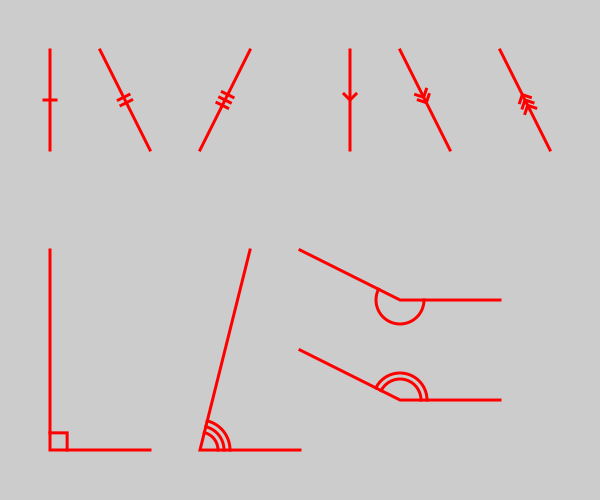
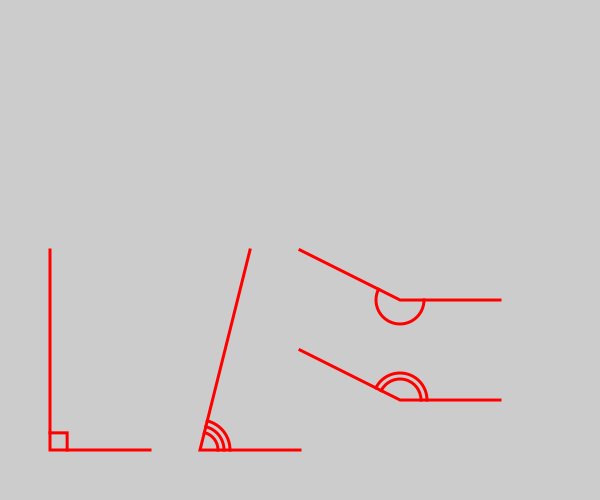
Remove deprecated marker classes

diff --git a/generativepy/geometry.py b/generativepy/geometry.py
@@ -2007,246 +2007,6 @@ class AngleMarker(Shape):
         shape.add()
 
 
-class TickMarker(Shape):
-    """
-    Deprecated - use the `Marker` class instead.
-
-    The TickMarker class is a special Shape that draws a tick mark (a small line) across an existing line.
-
-    An TickMarker can have 1, 2 or 3 ticks. It is normally used to indicate that two or more lines are the same length.
-
-    The TickMarker only draws the ticks, it doesn't draw the line itself. That would normally be
-    drawn using a Line object, Polygon object, or similar.
-    """
-
-    def __init__(self, ctx):
-        super().__init__(ctx)
-        self.a = (0, 0)
-        self.b = (0, 0)
-        self.length = 4
-        self.count = 1
-        self.gap = 1
-
-    def add(self):
-        self._do_path_()
-        pmid = ((self.a[0] + self.b[0]) / 2, (self.a[1] + self.b[1]) / 2)
-        # self.length of line
-        l = math.sqrt((self.a[0] - self.b[0]) * (self.a[0] - self.b[0]) + (self.a[1] - self.b[1]) * (self.a[1] - self.b[1]))
-        # Unit vector along line
-        # Draw a tick on a line - deprecated, use TickMarker class instead
-        vector = ((self.b[0] - self.a[0]) / l, (self.b[1] - self.a[1]) / l)
-        # Unit vector perpendicular to line
-        pvector = (-vector[1], vector[0])
-
-        self.ctx.new_path()
-        if self.count == 1:
-            pos = (pmid[0], pmid[1])
-            self._do_line((pos[0] + pvector[0] * self.length / 2, pos[1] + pvector[1] * self.length / 2),
-                          (pos[0] - pvector[0] * self.length / 2, pos[1] - pvector[1] * self.length / 2))
-        elif self.count == 2:
-            pos = (pmid[0] - vector[0] * self.gap / 2, pmid[1] - vector[1] * self.gap / 2)
-            self._do_line((pos[0] + pvector[0] * self.length / 2, pos[1] + pvector[1] * self.length / 2),
-                          (pos[0] - pvector[0] * self.length / 2, pos[1] - pvector[1] * self.length / 2))
-            pos = (pmid[0] + vector[0] * self.gap / 2, pmid[1] + vector[1] * self.gap / 2)
-            self._do_line((pos[0] + pvector[0] * self.length / 2, pos[1] + pvector[1] * self.length / 2),
-                          (pos[0] - pvector[0] * self.length / 2, pos[1] - pvector[1] * self.length / 2))
-        elif self.count == 3:
-            pos = (pmid[0] - vector[0] * self.gap, pmid[1] - vector[1] * self.gap)
-            self._do_line((pos[0] + pvector[0] * self.length / 2, pos[1] + pvector[1] * self.length / 2),
-                          (pos[0] - pvector[0] * self.length / 2, pos[1] - pvector[1] * self.length / 2))
-            pos = (pmid[0], pmid[1])
-            self._do_line((pos[0] + pvector[0] * self.length / 2, pos[1] + pvector[1] * self.length / 2),
-                          (pos[0] - pvector[0] * self.length / 2, pos[1] - pvector[1] * self.length / 2))
-            pos = (pmid[0] + vector[0] * self.gap, pmid[1] + vector[1] * self.gap)
-            self._do_line((pos[0] + pvector[0] * self.length / 2, pos[1] + pvector[1] * self.length / 2),
-                          (pos[0] - pvector[0] * self.length / 2, pos[1] - pvector[1] * self.length / 2))
-        return self
-
-    def of_start_end(self, a, b):
-        """
-        Creates a marker based on 2 points.
-
-        This will draw a mark for the line formed by ab. The mark will be half way between a and b.
-
-        Args:
-            a:  (number, number) - A tuple of two numbers, giving the (x, y) position of point a.
-            b:  (number, number) - A tuple of two numbers, giving the (x, y) position of point b.
-
-        Returns:
-            self
-        """
-        self.a = a
-        self.b = b
-        return self
-
-    def with_length(self, length):
-        """
-        Sets the length of the marker. Default 4
-
-        Args:
-            length:  number - Length of the marker in user units.
-
-        Returns:
-            self
-        """
-        self.length = length
-        return self
-
-    def with_count(self, count):
-        """
-        Sets the number of marks. Default 1. Permitted values are 1, 2 or 3.
-
-        Args:
-            * count:  number - Number of marks
-
-        Returns:
-            self
-        """
-        self.count = count
-        return self
-
-    def with_gap(self, gap):
-        """
-        Sets the gap between the marks if `count` > 1.
-
-        Sets the spacing of the marks. This is only relevant if there is more than one arc (ie if count > 1), otherwise
-        it is ignored.The default is 2.
-
-        Args:
-            gap:  number - Gap between marks in user units.
-
-        Returns:
-            self
-        """
-        self.gap = gap
-        return self
-
-    def _do_line(self, a, b):
-        self.ctx.move_to(*a)
-        self.ctx.line_to(*b)
-
-
-class ParallelMarker(Shape):
-    """
-    Deprecated - use the `Marker` class instead.
-
-    The ParallelMarker class is a special Shape that draws an arrow mark across an existing line.
-
-    An ParallelMarker can have 1, 2 or 3 arrows. It is normally used to indicate that two or more lines are the parallel.
-
-    The ParallelMarker only draws the arrows, it doesn't draw the line itself. That would normally be
-    drawn using a Line object, Polygon object, or similar.
-    """
-
-    def __init__(self, ctx):
-        super().__init__(ctx)
-        self.a = (0, 0)
-        self.b = (0, 0)
-        self.length = 4
-        self.count = 1
-        self.gap = 1
-
-    def add(self):
-        self._do_path_()
-        # Midpoint of line
-        pmid = ((self.a[0] + self.b[0]) / 2, (self.a[1] + self.b[1]) / 2)
-        # self.length of line
-        l = math.sqrt((self.a[0] - self.b[0]) * (self.a[0] - self.b[0]) + (self.a[1] - self.b[1]) * (self.a[1] - self.b[1]))
-        # Unit vector along line
-        vector = ((self.b[0] - self.a[0]) / l, (self.b[1] - self.a[1]) / l)
-        # Unit vector perpendicular to line
-        pvector = (-vector[1], vector[0])
-
-        self.ctx.new_path()
-        if self.count == 1:
-            pos = (pmid[0], pmid[1])
-            self._do_draw(pos[0], pos[1], (-vector[0] + pvector[0]) * self.length / 2, (-vector[1] + pvector[1]) * self.length / 2,
-                          (-vector[0] - pvector[0]) * self.length / 2, (-vector[1] - pvector[1]) * self.length / 2)
-        elif self.count == 2:
-            pos = (pmid[0] - vector[0] * self.gap / 2, pmid[1] - vector[1] * self.gap / 2)
-            self._do_draw(pos[0], pos[1], (-vector[0] + pvector[0]) * self.length / 2, (-vector[1] + pvector[1]) * self.length / 2,
-                          (-vector[0] - pvector[0]) * self.length / 2, (-vector[1] - pvector[1]) * self.length / 2)
-            pos = (pmid[0] + vector[0] * self.gap / 2, pmid[1] + vector[1] * self.gap / 2)
-            self._do_draw(pos[0], pos[1], (-vector[0] + pvector[0]) * self.length / 2, (-vector[1] + pvector[1]) * self.length / 2,
-                          (-vector[0] - pvector[0]) * self.length / 2, (-vector[1] - pvector[1]) * self.length / 2)
-        elif self.count == 3:
-            pos = (pmid[0] - vector[0] * self.gap, pmid[1] - vector[1] * self.gap)
-            self._do_draw(pos[0], pos[1], (-vector[0] + pvector[0]) * self.length / 2, (-vector[1] + pvector[1]) * self.length / 2,
-                          (-vector[0] - pvector[0]) * self.length / 2, (-vector[1] - pvector[1]) * self.length / 2)
-            pos = (pmid[0], pmid[1])
-            self._do_draw(pos[0], pos[1], (-vector[0] + pvector[0]) * self.length / 2, (-vector[1] + pvector[1]) * self.length / 2,
-                          (-vector[0] - pvector[0]) * self.length / 2, (-vector[1] - pvector[1]) * self.length / 2)
-            pos = (pmid[0] + vector[0] * self.gap, pmid[1] + vector[1] * self.gap)
-            self._do_draw(pos[0], pos[1], (-vector[0] + pvector[0]) * self.length / 2, (-vector[1] + pvector[1]) * self.length / 2,
-                          (-vector[0] - pvector[0]) * self.length / 2, (-vector[1] - pvector[1]) * self.length / 2)
-        return self
-
-    def of_start_end(self, a, b):
-        """
-        Creates a marker based on 2 points.
-
-        This will draw a mark for the line formed by ab. The mark will be half way between a and b.
-
-        Args:
-            a:  (number, number) - A tuple of two numbers, giving the (x, y) position of point a.
-            b:  (number, number) - A tuple of two numbers, giving the (x, y) position of point b.
-
-        Returns:
-            self
-        """
-        self.a = a
-        self.b = b
-        return self
-
-    def with_length(self, length):
-        """
-        Sets the length of the marker. Default 4
-
-        Args:
-            length:  number - Length of the marker in user units.
-
-        Returns:
-            self
-        """
-        self.length = length
-        return self
-
-    def with_count(self, count):
-        """
-        Sets the number of marks. Default 1. Permitted values are 1, 2 or 3.
-
-        Args:
-            * count:  number - Number of marks
-
-        Returns:
-            self
-        """
-        self.count = count
-        return self
-
-    def with_gap(self, gap):
-        """
-        Sets the gap between the marks if `count` > 1.
-
-        Sets the spacing of the marks. This is only relevant if there is more than one arc (ie if count > 1), otherwise
-        it is ignored.The default is 2.
-
-        Args:
-            gap:  number - Gap between marks in user units.
-
-        Returns:
-            self
-        """
-        self.gap = gap
-        return self
-
-    def _do_draw(self, x, y, ox1, oy1, ox2, oy2):
-        self.ctx.move_to(x, y)
-        self.ctx.line_to(x + ox1, y + oy1)
-        self.ctx.move_to(x, y)
-        self.ctx.line_to(x + ox2, y + oy2)
-
-
 class Image():
     """
     The Image class renders an image on a drawing context.

diff --git a/imagetests/test_geometry_module.py b/imagetests/test_geometry_module.py
@@ -17,8 +17,6 @@ from generativepy.geometry import (
     Turtle,
     Transform,
     AngleMarker,
-    ParallelMarker,
-    TickMarker,
     RegularPolygon,
     Marker,
     FillParameters, StrokeParameters, ROUND, FONT_WEIGHT_BOLD, FONT_SLANT_ITALIC, EVEN_ODD, BUTT, BEVEL,
@@ -135,47 +133,6 @@ class TestGeometryImages(unittest.TestCase):
             setup(ctx, width, height, background=Color(0.8))
             red = Color("red")
             thickness = 3
-
-            ## Draw lines with ticks and paraticks
-            a = (50, 50)
-            b = (50, 150)
-            Line(ctx).of_start_end(a, b).stroke(red, thickness)
-            TickMarker(ctx).of_start_end(a, b).with_length(12).stroke(red, thickness)
-
-            a = (100, 50)
-            b = (150, 150)
-            Line(ctx).of_start_end(a, b).stroke(red, thickness)
-            TickMarker(ctx).of_start_end(a, b).with_length(12).with_count(2).with_gap(
-                6
-            ).stroke(red, thickness)
-
-            a = (250, 50)
-            b = (200, 150)
-            Line(ctx).of_start_end(a, b).stroke(red, thickness)
-            TickMarker(ctx).of_start_end(a, b).with_length(12).with_count(3).with_gap(
-                6
-            ).stroke(red, thickness)
-
-            a = (350, 50)
-            b = (350, 150)
-            Line(ctx).of_start_end(a, b).stroke(red, thickness)
-            ParallelMarker(ctx).of_start_end(a, b).with_length(12).stroke(
-                red, thickness
-            )
-
-            a = (400, 50)
-            b = (450, 150)
-            Line(ctx).of_start_end(a, b).stroke(red, thickness)
-            ParallelMarker(ctx).of_start_end(a, b).with_length(12).with_count(
-                2
-            ).with_gap(6).stroke(red, thickness)
-
-            a = (550, 150)
-            b = (500, 50)
-            Line(ctx).of_start_end(a, b).stroke(red, thickness)
-            ParallelMarker(ctx).of_start_end(a, b).with_length(12).with_count(
-                3
-            ).with_gap(6).stroke(red, thickness)
 
             ## Draw lines with angles
             a = (50, 250)
